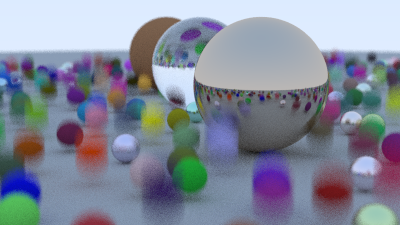
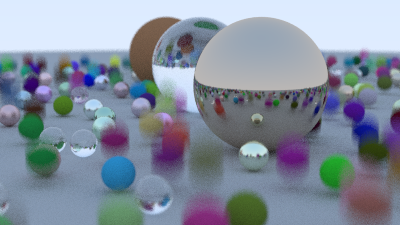
ch 3.10

diff --git a/src/aabb.cpp b/src/aabb.cpp
@@ -1,11 +1,8 @@
 #include "aabb.h"
 
-aabb::aabb(const interval& x, const interval& y, const interval& z) : x(x), y(y), z(z)
-{
-}
+aabb::aabb(const interval& x, const interval& y, const interval& z) : x(x), y(y), z(z) {}
 
-aabb::aabb(const point3& a, const point3& b)
-{
+aabb::aabb(const point3& a, const point3& b) {
     // Treat the two points a and b as extrema for the bounding box, so we don't require a
     // particular minimum/maximum coordinate order.
 
@@ -20,39 +17,66 @@ aabb::aabb(const aabb& box0, const aabb& box1) {
     z = interval(box0.z, box1.z);
 }
 
-const interval& aabb::axis_interval(int n) const
-{
-    if (n == 1) return y;
-    if (n == 2) return z;
+const interval& aabb::axis_interval(int n) const {
+    if (n == 1) {
+        return y;
+    }
+    if (n == 2) {
+        return z;
+    }
     return x;
 }
 
-bool aabb::hit(const ray& r, interval ray_t) const
-{
+bool aabb::hit(const ray& r, interval ray_t) const {
     const point3& ray_orig = r.origin();
-    const vec3& ray_dir = r.direction();
+    const vec3& ray_dir    = r.direction();
 
-    for (int axis = 0; axis < 3; axis++)
-    {
+    for (int axis = 0; axis < 3; axis++) {
         const interval& ax = axis_interval(axis);
         const double adinv = 1.0 / ray_dir[axis];
 
         const double t0 = (ax.min - ray_orig[axis]) * adinv;
         const double t1 = (ax.max - ray_orig[axis]) * adinv;
 
-        if (t0 < t1)
-        {
-            if (t0 > ray_t.min) ray_t.min = t0;
-            if (t1 < ray_t.max) ray_t.max = t1;
-        }
-        else
-        {
-            if (t1 > ray_t.min) ray_t.min = t1;
-            if (t0 < ray_t.max) ray_t.max = t0;
+        if (t0 < t1) {
+            if (t0 > ray_t.min) {
+                ray_t.min = t0;
+            }
+            if (t1 < ray_t.max) {
+                ray_t.max = t1;
+            }
+        } else {
+            if (t1 > ray_t.min) {
+                ray_t.min = t1;
+            }
+            if (t0 < ray_t.max) {
+                ray_t.max = t0;
+            }
         }
 
-        if (ray_t.max <= ray_t.min)
+        if (ray_t.max <= ray_t.min) {
             return false;
+        }
     }
     return true;
+}
+
+int aabb::longest_axis() const {
+    // Returns the index of the longest axis of the bounding box.
+
+    if (x.size() > y.size()) {
+        return x.size() > z.size() ? 0 : 2;
+    } else {
+        return y.size() > z.size() ? 1 : 2;
+    }
+}
+
+const aabb& aabb::empty() {
+    static const aabb empty(interval::empty(), interval::empty(), interval::empty());
+    return empty;
+}
+
+const aabb& aabb::universe() {
+    static const aabb universe(interval::universe(), interval::universe(), interval::universe());
+    return universe;
 }

diff --git a/src/hittable/bvh.cpp b/src/hittable/bvh.cpp
@@ -11,7 +11,12 @@ bvh_node::bvh_node(hittable_list list) : bvh_node(list.objects, 0, list.objects.
 }
 
 bvh_node::bvh_node(std::vector<std::shared_ptr<hittable>>& objects, size_t start, size_t end) {
-    const int axis = random_int(0, 2);
+    // Build the bounding box of the span of source objects.
+    bbox = aabb::empty();
+    for (size_t object_index=start; object_index < end; object_index++)
+        bbox = aabb(bbox, objects[object_index]->bounding_box());
+
+    const int axis = bbox.longest_axis();
 
     const auto comparator = (axis == 0) ? box_x_compare : (axis == 1) ? box_y_compare : box_z_compare;
 
@@ -29,8 +34,6 @@ bvh_node::bvh_node(std::vector<std::shared_ptr<hittable>>& objects, size_t start
         left     = std::make_shared<bvh_node>(objects, start, mid);
         right    = std::make_shared<bvh_node>(objects, mid, end);
     }
-
-    bbox = aabb(left->bounding_box(), right->bounding_box());
 }
 
 bool bvh_node::hit(const ray& r, const interval& ray_t, hit_record& rec) const {

diff --git a/src/aabb.h b/src/aabb.h
@@ -19,6 +19,11 @@ public:
 
     bool hit(const ray& r, interval ray_t) const;
 
+    int longest_axis() const;
+
+    static const aabb& empty();
+    static const aabb& universe();
+
 public:
     interval x;
     interval y;

diff --git a/src/interval.h b/src/interval.h
@@ -21,7 +21,6 @@ public:
     interval expand(double delta) const;
 
     static const interval& empty();
-
     static const interval& universe();
 
 public:
